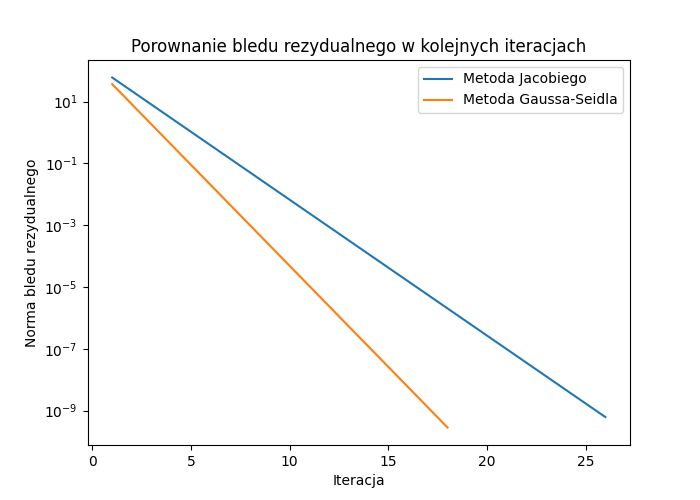
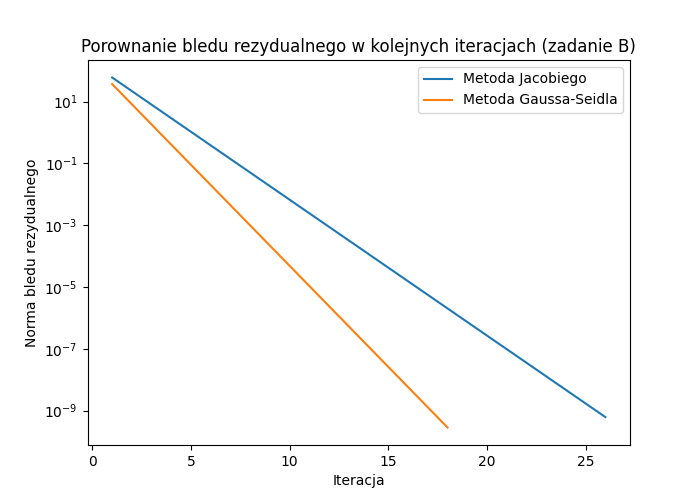
Added LU factorization method

Changed region(s): [[0.12, 0.06, 0.9, 0.12]]

diff --git a/src/main.cpp b/src/main.cpp
@@ -31,6 +31,8 @@ Matrix CalculateJacobi(Matrix& A, Matrix& b, double accuracy, std::vector<double
         i++;
         iterations.push_back(i);
         residuum.push_back(error);
+        if(i >= 1000)
+            break;
     }
     return r;
 }
@@ -52,8 +54,27 @@ Matrix CalculateGauss(Matrix& A, Matrix& b, double accuracy, std::vector<double>
         i++;
         iterations.push_back(i);
         residuum.push_back(error);
+        if(i >= 1000)
+            break;
     }
     return r;
+}
+
+Matrix LUFactorization(Matrix& A, Matrix& b){
+    Matrix U(A);
+    Matrix L(A.GetRows(), A.GetColumns());
+    L.CreateDiagonal(1, 0, 0);
+    for(int k=0; k<A.GetRows()-1; k++){
+        for(int j=k+1; j<A.GetColumns(); j++){
+            L.Set(j, k, U.Get(j, k)/U.Get(k, k));
+            for(int i=k; i<U.GetColumns(); i++){
+                U.Set(j, i, U.Get(j, i)-L.Get(j,k)*U.Get(k, i));
+            }
+        }
+    }
+    Matrix y = L.ForwardSubstitution(b);
+    Matrix x = U.BackwardSubstitution(y);
+    return x;
 }
 
 void Example1(){
@@ -64,6 +85,7 @@ void Example1(){
     for(int i=0; i<N; i++){
         b.Set(i, 0, sin(i*(F+1)));
     }
+    //metoda Jacobiego
     std::vector<double> residuumJacobi;
     std::vector<double> iterationsJacobi;
     auto startJacobi = std::chrono::high_resolution_clock::now();
@@ -86,20 +108,64 @@ void Example1(){
     plt::figure_size(700, 500);
     plt::named_semilogy("Metoda Jacobiego", iterationsJacobi, residuumJacobi);
     plt::named_semilogy("Metoda Gaussa-Seidla", iterationsGauss, residuumGauss);
-    plt::title("Porownanie bledu rezydualnego w kolejnych iteracjach");
+    plt::title("Porownanie bledu rezydualnego w kolejnych iteracjach (zadanie B)");
     plt::xlabel("Iteracja");
     plt::ylabel("Norma bledu rezydualnego");
     plt::legend();
     plt::save("plots/ZadanieBResiduum.png");
 }
 
-int main(){
-    Matrix m(5, 2, {{5.0, 1.0},{-3.0, 3.0},{4.0, -1.0},{-1.0, 2.0},{0.0, 7.0}});
-    Matrix d(2, 7, {{1.0, 7.0, 0.0, -1.0, 9.0, 0.0, 5.0},{2.0, -6.0, -1.0, 10.0, 2.0, -3.0, 1.0}});
-    
+void Example2(){
+    std::cout<<"Zadanie C:"<<"\n";
+    Matrix A(N, N);
+    A.CreateDiagonal(3, A2, A3);
+    Matrix b(N, 1);
+    for(int i=0; i<N; i++){
+        b.Set(i, 0, sin(i*(F+1)));
+    }
+    //metoda Jacobiego
+    std::vector<double> residuumJacobi;
+    std::vector<double> iterationsJacobi;
+    auto startJacobi = std::chrono::high_resolution_clock::now();
+    Matrix rJacobi = CalculateJacobi(A, b, 1e-9, iterationsJacobi, residuumJacobi);
+    auto stopJacobi = std::chrono::high_resolution_clock::now();
+    std::cout<<"-Metoda Jacobiego-"<<"\n";
+    std::cout<<"Liczba iteracji: "<<iterationsJacobi.size()<<"\n";
+    std::cout<<"Czas wykonania: "<<std::chrono::duration_cast<std::chrono::milliseconds>(stopJacobi-startJacobi).count()<<"ms"<<"\n";
+    //metoda Gaussa-Seidla
+    std::vector<double> residuumGauss;
+    std::vector<double> iterationsGauss;
+    auto startGauss = std::chrono::high_resolution_clock::now();
+    Matrix rGauss = CalculateGauss(A, b, 1e-9, iterationsGauss, residuumGauss);
+    auto stopGauss = std::chrono::high_resolution_clock::now();
+    std::cout<<"-Metoda Gaussa-Seidla-"<<"\n";
+    std::cout<<"Liczba iteracji: "<<iterationsGauss.size()<<"\n";
+    std::cout<<"Czas wykonania: "<<std::chrono::duration_cast<std::chrono::milliseconds>(stopGauss-startGauss).count()<<"ms"<<"\n";
+    //generowanie wykresu
+    plt::figure();
+    plt::figure_size(700, 500);
+    plt::named_semilogy("Metoda Jacobiego", iterationsJacobi, residuumJacobi);
+    plt::named_semilogy("Metoda Gaussa-Seidla", iterationsGauss, residuumGauss);
+    plt::title("Porownanie bledu rezydualnego w kolejnych iteracjach (zadanie C)");
+    plt::xlabel("Iteracja");
+    plt::ylabel("Norma bledu rezydualnego");
+    plt::legend();
+    plt::save("plots/ZadanieCResiduum.png");
 
+    auto startLU = std::chrono::high_resolution_clock::now();
+    Matrix xLU = LUFactorization(A, b);
+    auto stopLU = std::chrono::high_resolution_clock::now();
+    std::cout<<"-Metoda Faktoryzacji LU-"<<"\n";
+    std::cout<<"Czas wykonania: "<<std::chrono::duration_cast<std::chrono::milliseconds>(stopLU-startLU).count()<<"ms"<<"\n";
+    std::cout<<"Blad rezydualny: "<<(A*xLU-b).CalculateNorm()<<"\n";
+
+}
+
+int main(){
     //zadanie A i B
     Example1();
+    //zadanie C
+    Example2();
     
     return 0;
 }

diff --git a/src/matrix.cpp b/src/matrix.cpp
@@ -16,6 +16,12 @@ Matrix::Matrix(int rows, int columns){
         this->matrix[i].resize(columns);
 }
 
+Matrix::Matrix(Matrix& b){
+    this->rows = b.rows;
+    this->columns = b.columns;
+    this->matrix = b.matrix;
+}
+
 void Matrix::Set(int i, int j, double value){
     this->matrix[i][j] = value;
 }
@@ -158,6 +164,21 @@ Matrix Matrix::ForwardSubstitution(const Matrix& b){
             temp -= Get(i, j) * x.Get(j, 0);
         }
         x.Set(i, 0, temp / Get(i, i));
+    }
+    return x;
+}
+
+Matrix Matrix::BackwardSubstitution(const Matrix& b){
+    Matrix x(rows, 1);
+    x.FillZeros();
+    if(rows != b.GetRows())
+        throw std::runtime_error("Matrixes are not compatible for backward substitution");
+    for(int i=rows-1; i>=0; i--){
+        double temp = b.Get(i, 0);
+        for(int j=i+1; j<columns; j++){
+            temp -= Get(i, j) * x.Get(j, 0);
+        }
+        x.Set(i, 0, temp/Get(i,i));
     }
     return x;
 }

diff --git a/src/matrix.h b/src/matrix.h
@@ -9,6 +9,7 @@ class Matrix{
     public:
         Matrix(int rows, int columns, std::vector<std::vector<double>>);
         Matrix(int rows, int columns);
+        Matrix(Matrix& b);
         void Set(int i, int j, double value);
         double Get(int i, int j) const;
         int GetRows() const;
@@ -34,5 +35,6 @@ class Matrix{
         double CalculateNorm();
         void CreateDiagonal(double a1, double a2, double a3);
         Matrix ForwardSubstitution(const Matrix& b);
+        Matrix BackwardSubstitution(const Matrix& b);
         Matrix InverseDiagonalMatrix();
 };
